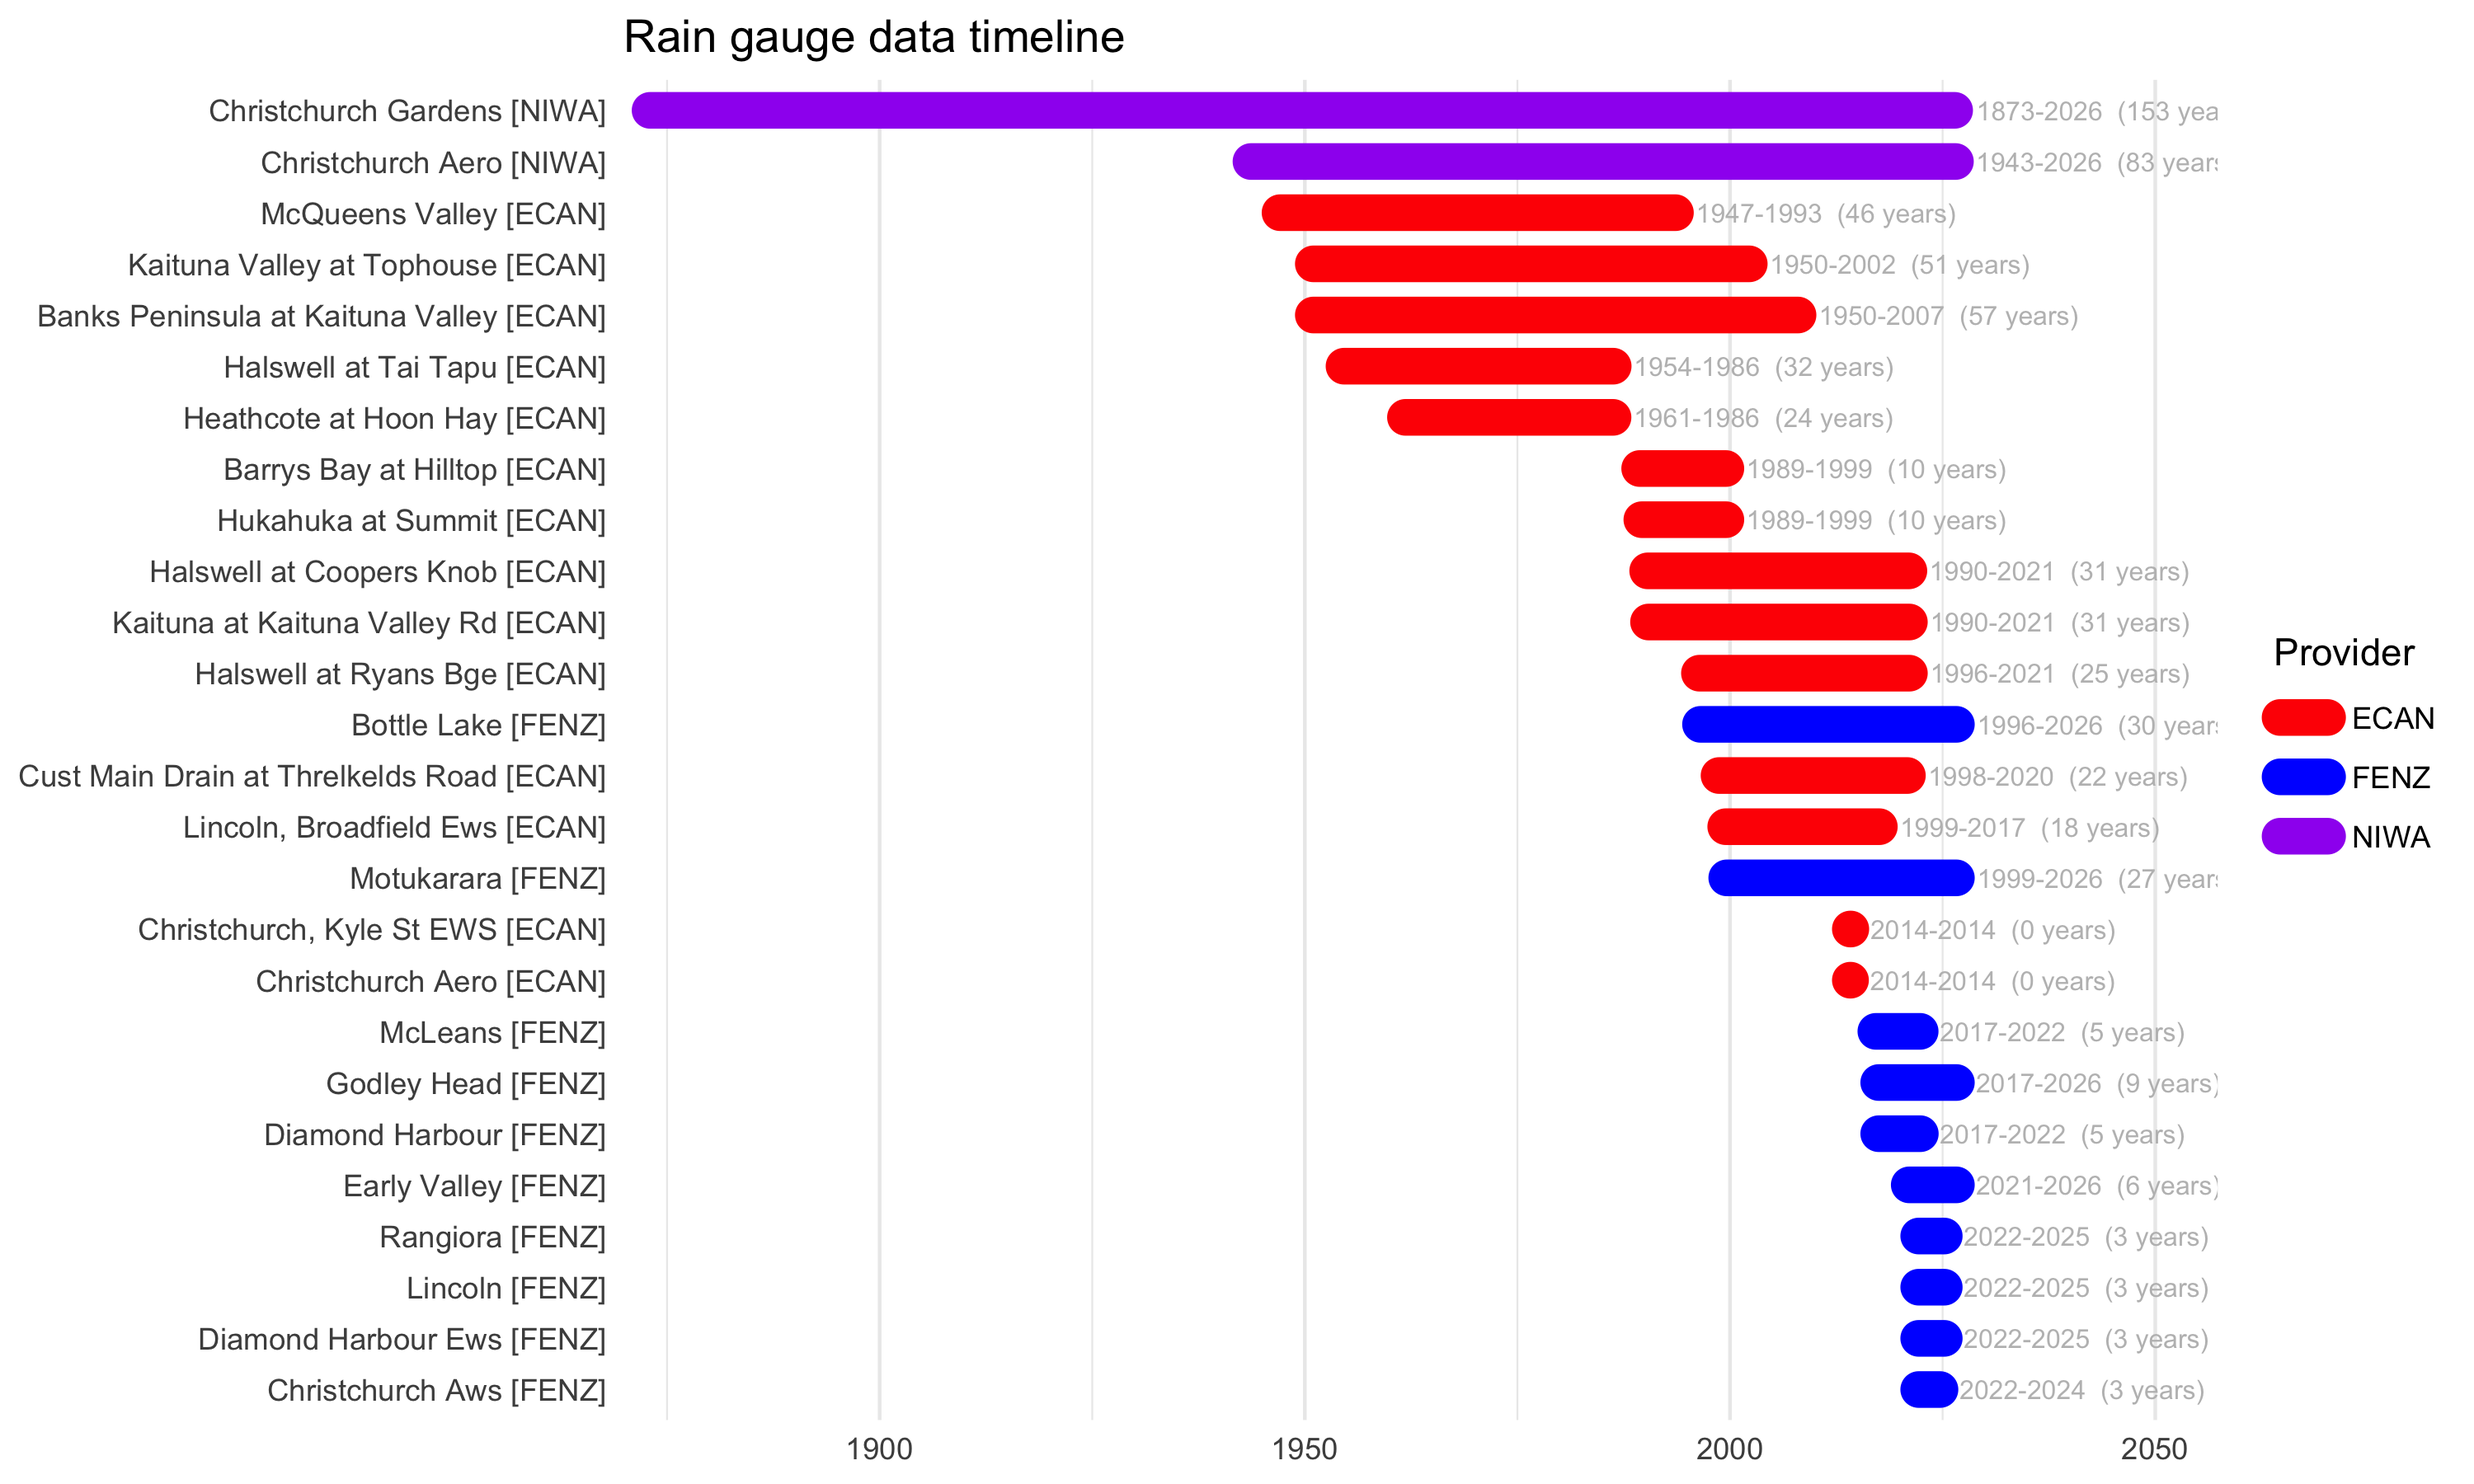
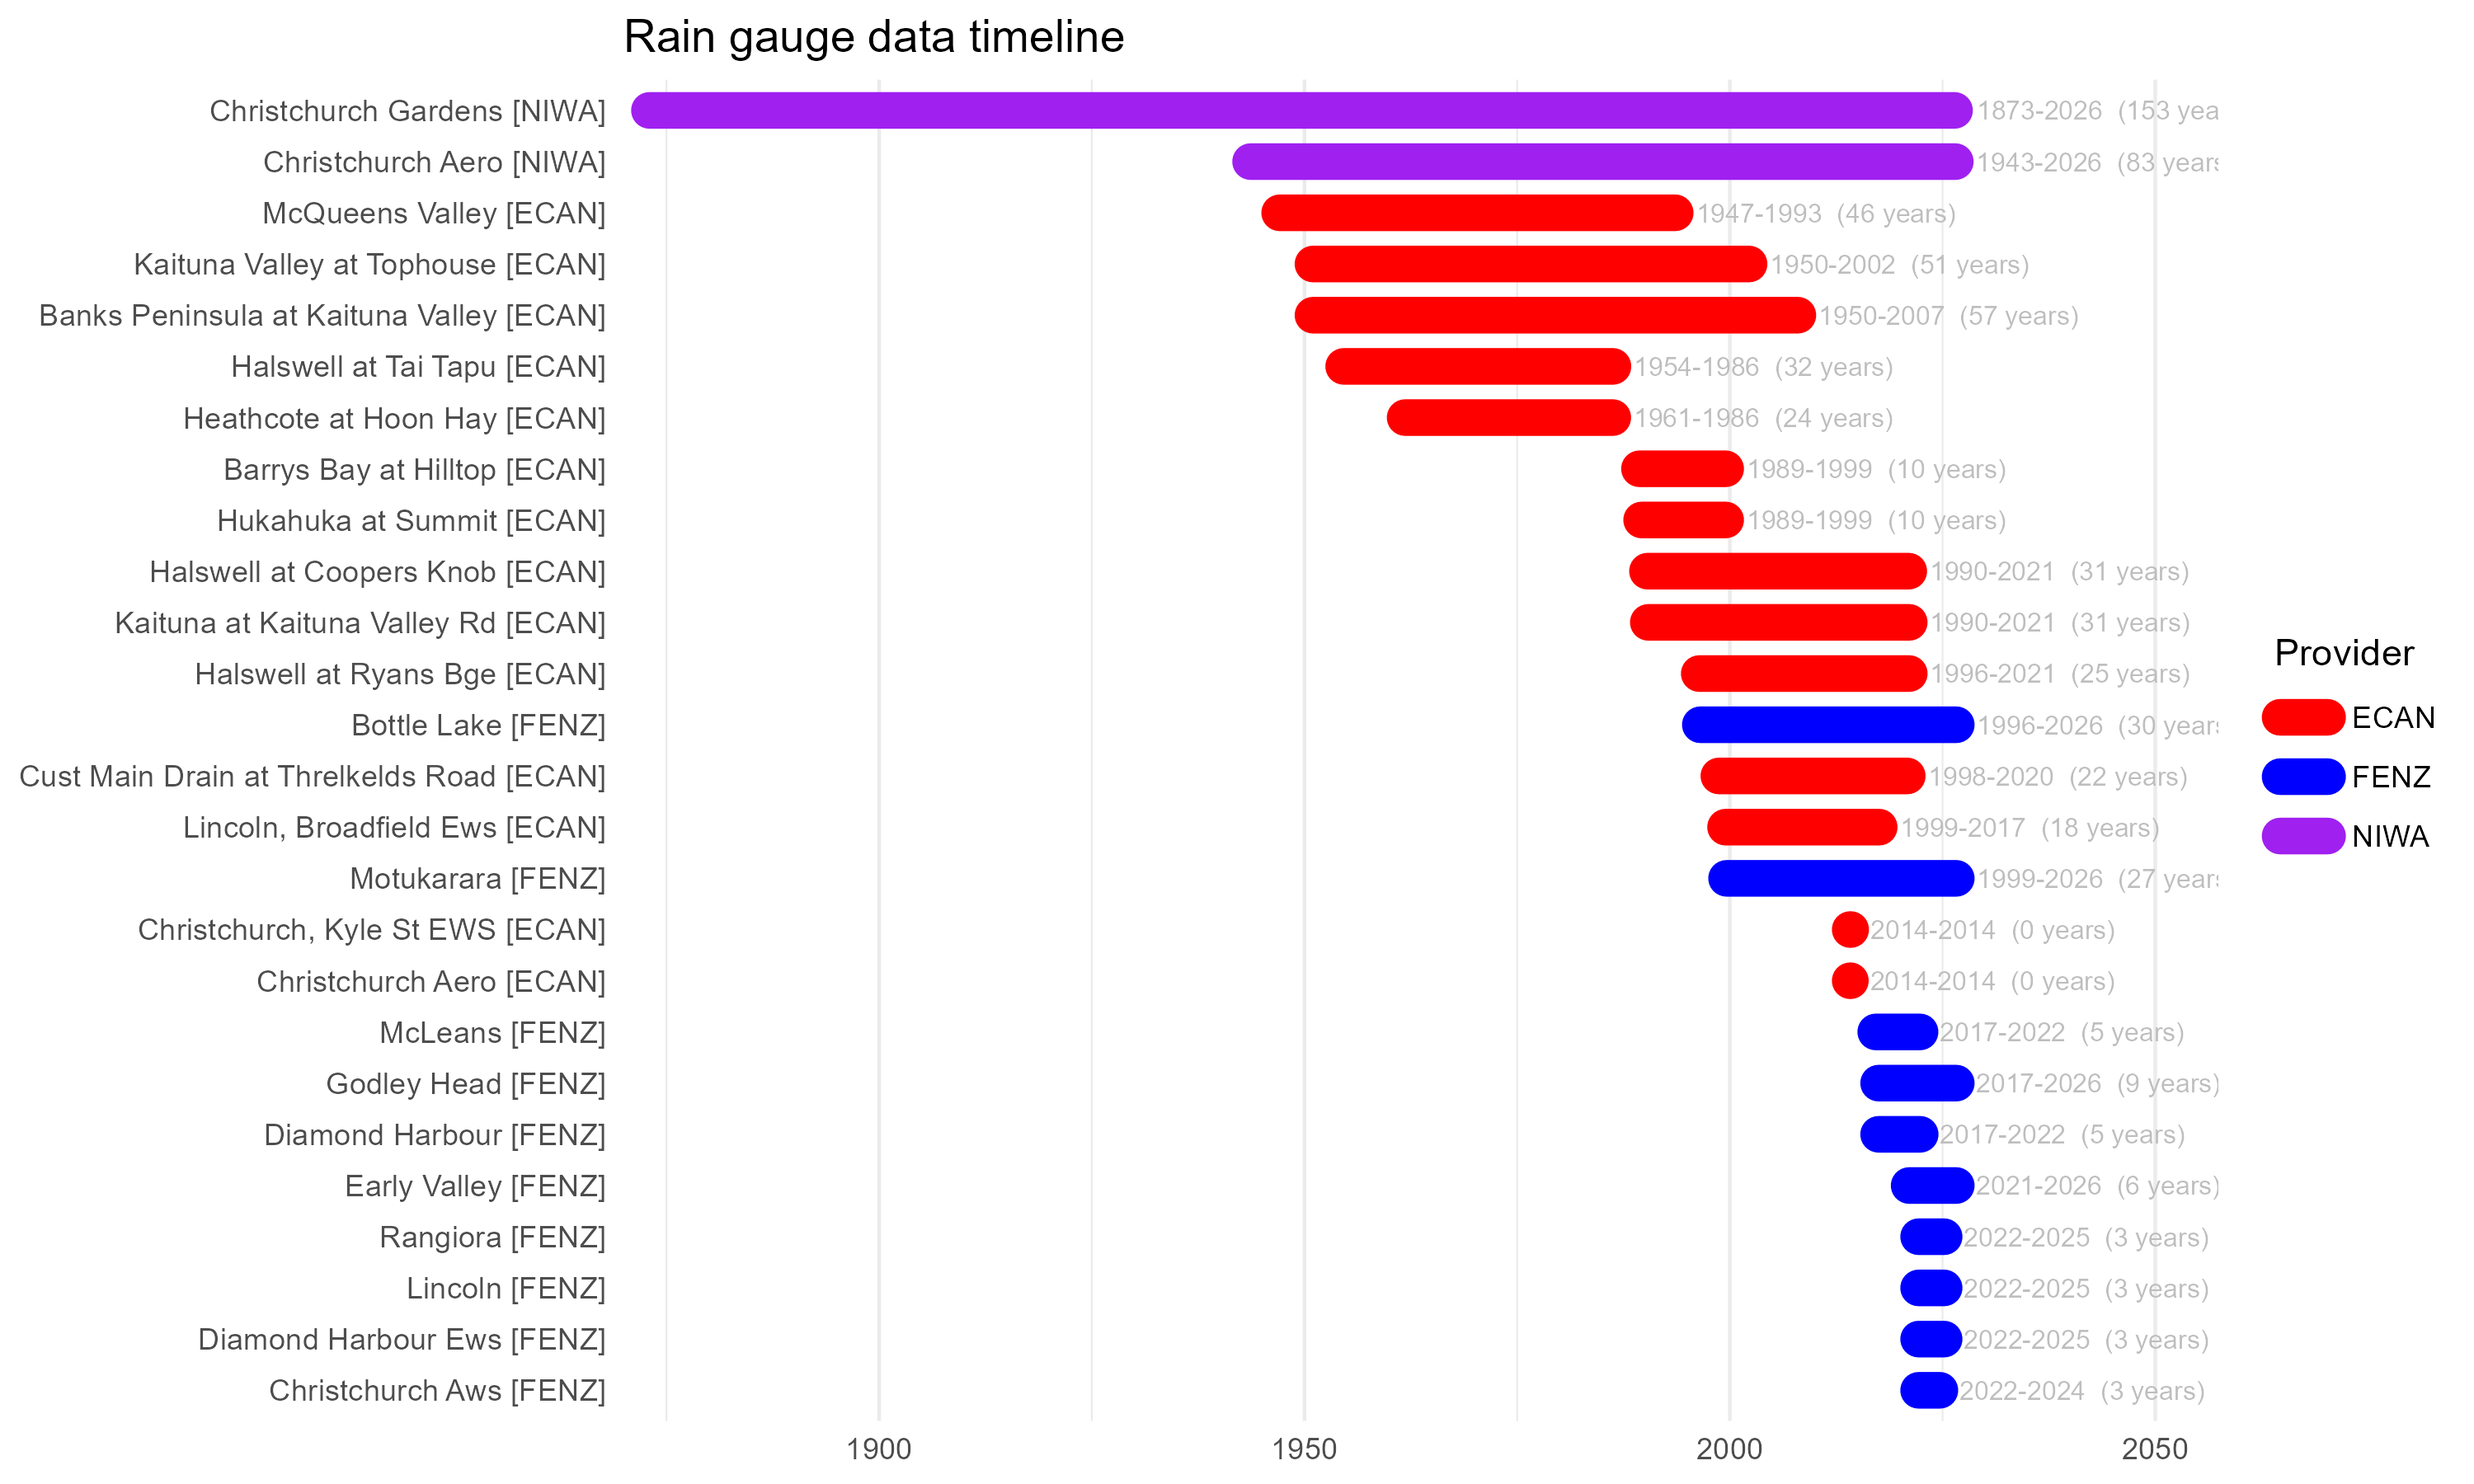
making modifications to make more consistent

diff --git a/metadata_table.py b/metadata_table.py
@@ -48,10 +48,12 @@ DUPLICATE_WATCH = [
 
 
 NIWA = {
-    "chch_aero_rain_daily.csv":    {"name": "Christchurch Aero",    "id": "?????",
-                                    "lat": -43.4894, "lon": 172.5325},
-    "chch_gardens_rain_daily.csv": {"name": "Christchurch Gardens", "id": "????",
-                                    "lat": -43.5310, "lon": 172.6200},
+    "chch_aero_rain_hourly.csv":    {"name": "Christchurch Aero",    "id": "4843",
+                                    "lat": -43.493, "lon": 172.537},
+    "chch_gardens_rain_hourly.csv": {"name": "Christchurch Gardens", "id": "44763",
+                                    "lat": -43.5294, "lon": 172.6200},
+    "akaroa_ews_rain_hourly.csv": {"name": "Akaroa EWS", "id": "36593",
+                                    "lat": -43.80938, "lon": 172.96574},
 }
 
 
@@ -152,4 +154,4 @@ out["elevation_m"] = out.apply(
 )
 
 out = out[["station_name", "provider", "station_id", "lat", "lon", "elevation_m",
-           "zone"
+           "zone"]]

diff --git a/datasets/download_rainfall_tethys_ecan.py b/datasets/download_rainfall_tethys_ecan.py
@@ -1,3 +1,5 @@
+# Download ECAN Rainfall - extreme_rainfall
+
 from tethysts import Tethys
 import pandas as pd
 from pathlib import Path
@@ -73,24 +75,8 @@ def download_station(ts, dataset_id, station, provider):
 
     df = results.to_dataframe()
 
-    # Make the time coordinate a normal column
+    # Turn the time index a normal column
     df = df.reset_index()
-
-    # Check whether time exists
-    if "time" in df.columns:
-
-        df["time"] = pd.to_datetime(
-            df["time"],
-            errors="coerce"
-        )
-
-        print("Timestamp column found.")
-        print("First timestamp:", df["time"].min())
-        print("Last timestamp:", df["time"].max())
-
-    else:
-
-        print("WARNING: No time column found.")
 
     # Create safe filename
     filename = (

diff --git a/datasets/download_rainfall_tethys_FENZ.py b/datasets/download_rainfall_tethys_FENZ.py
@@ -1,3 +1,5 @@
+# Download FENZ Rainfall - extreme_rainfall
+
 from tethysts import Tethys
 import pandas as pd
 from pathlib import Path
@@ -63,21 +65,6 @@ for name, station_id in fenz_station_ids.items():
     # Turn the time index into a normal column
     df = df.reset_index()
 
-    # Check timestamp
-    if "time" in df.columns:
-
-        df["time"] = pd.to_datetime(
-            df["time"],
-            errors="coerce"
-        )
-
-        print("Timestamp column found.")
-        print("First timestamp:", df["time"].min())
-        print("Last timestamp:", df["time"].max())
-
-    else:
-
-        print("WARNING: No time column found.")
 
     # Create filename
     filename = (
